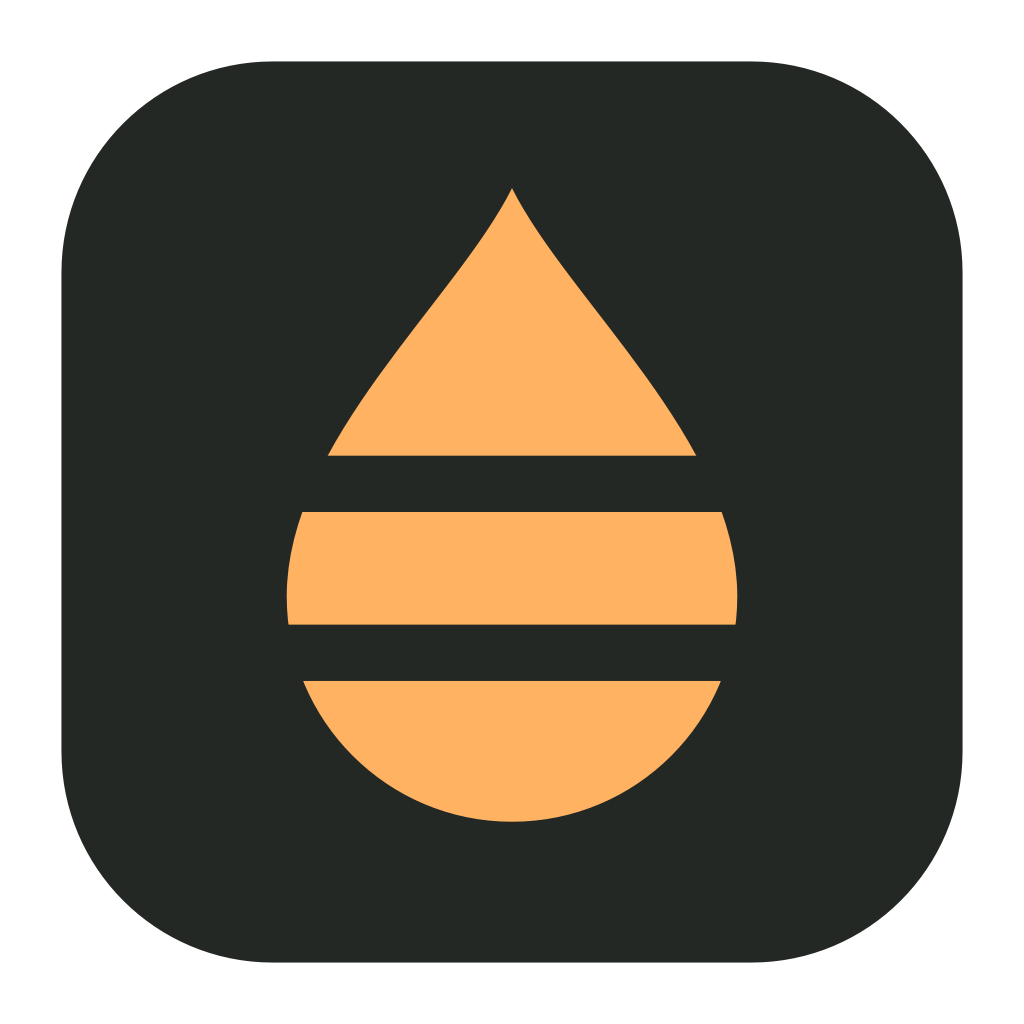
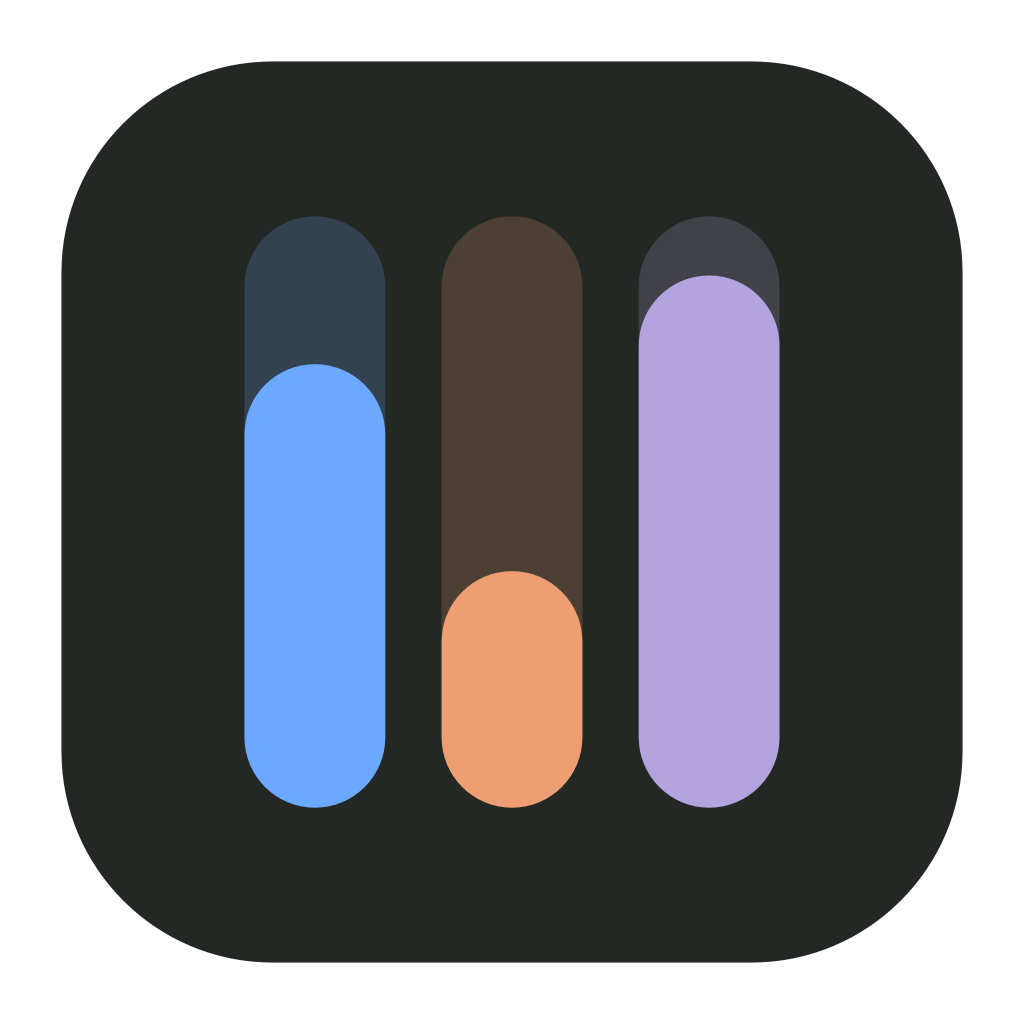
Adopt Juicebars branding and three-bar artwork

Changed region(s): [[0.2188, 0.1875, 0.7812, 0.8125]]

diff --git a/site/help.html b/site/help.html
@@ -1,1 +1,1 @@
-<!doctype html><html lang="en"><head><meta charset="utf-8"><meta name="viewport" content="width=device-width,initial-scale=1"><title>Setup & help · Juicebar</title><meta name="description" content="Install Juicebar, connect Codex, Claude and OpenCode, and understand your usage data."><link rel="icon" href="assets/juicebar.svg"><link rel="stylesheet" href="style.css"></head><body><a class="skip" href="#main">Skip to content</a><header class="wrap"><a class="brand" href="./"><img src="assets/juicebar.svg" alt="" width="30" height="30">juicebar</a><nav aria-label="Main"><a href="https://github.com/Rasalas/juicebar/issues">Report a problem <svg class="icon" viewBox="0 0 24 24" fill="none" stroke="currentColor" stroke-width="1.8" stroke-linecap="round" stroke-linejoin="round" aria-hidden="true" focusable="false"><path d="M14 3h7v7m0-7L10 14"/><path d="M10 3H4v17h17v-6"/></svg></a></nav></header><main id="main" class="wrap article"><h1>Setup & help.</h1><p>Juicebar uses the tools and accounts you already have. It does not require a separate account or send prompts to check your limits.</p><h2>Install on your Mac</h2><ol><li>Download <a href="https://github.com/Rasalas/juicebar/releases/download/v0.1.4/Juicebar-0.1.4-macOS-arm64.dmg">Juicebar 0.1.4 for Mac</a>. The current build requires Apple Silicon and macOS 14 or later.</li><li>Open the disk image and drag Juicebar to Applications. Eject the disk image, then open Juicebar from Applications.</li><li>Open Accounts and connect your providers. Enable notifications under Warnings when you are ready.</li></ol><p class="note">The official direct download is Developer ID signed and notarized. You should not need to disable Gatekeeper. Source builds are a separate option for contributors.</p><h2>Connect a provider</h2><details open><summary>ChatGPT / Codex subscription</summary><p>Install the <a href="https://developers.openai.com/codex/cli/">Codex CLI</a> and run <code>codex login</code> in Terminal. Choose your ChatGPT account. In Juicebar, add Codex and save. CLI paths are detected automatically; a custom program or profile folder can be set under Advanced setup.</p></details><details><summary>Claude subscription</summary><p>Install <a href="https://code.claude.com/docs/en/setup">Claude Code</a> and run <code>claude auth login</code>. Add Claude in Juicebar and save. The CLI must be signed in to the subscription you want to monitor. A browser-only sign-in is not enough.</p></details><details><summary>OpenCode Go</summary><p>Choose the correct account and workspace in the <a href="https://opencode.ai/console/">OpenCode console</a>. Juicebar can read an existing local <code>opencode-go</code> API key, or you can save a Go key in its account form. The form tells you when it finds a local key.</p><p>The newer <code>opencode console login</code> session is not yet a supported source for this quota integration. A 403 or EntitlementError means the key does not report Go access; check its workspace and subscription assignment. It does not, on its own, prove your paid subscription expired.</p></details><details><summary>OpenCode Zen and API accounts</summary><p>Zen activity comes from the local OpenCode database. Juicebar does not currently claim a verified Zen balance. OpenAI and Anthropic organization cost reports require an admin key; a normal model API key is not enough. OpenRouter uses a management key for account-wide balance.</p><p>These are separate from ChatGPT and Claude subscriptions. A budget entered in Juicebar is your warning budget, not a provider-imposed cap.</p></details><h2>Understand the numbers</h2><details><summary>Why is a quota line flat?</summary><p>Quota history records provider measurements from the time Juicebar starts collecting them. A flat line means the reported percentage did not change. Token logs cannot reconstruct subscription percentages.</p></details><details><summary>Where does the API cost come from?</summary><p>Juicebar estimates the API equivalent of recorded input, output and cache tokens at current standard prices. It shows coverage and leaves unknown models unpriced. This is not what you paid for a subscription. Confirmed model aliases and prices can update through a signed data catalog. That check can be disabled in Settings.</p></details><details><summary>Why are older chats or dates missing?</summary><p>Usage imports automatically at launch and every five minutes. Available local and SSH logs cover up to 90 days. Logs deleted before the first import, unconnected devices and browser-only chats may be absent. Older Claude daily statistics can fill gaps, but often lack enough detail for a cost estimate.</p></details><details><summary>How do I add another computer?</summary><p>Under Usage, add an existing SSH alias such as <code>workstation</code>. The host needs Python 3, a known host key and working key-based login. Juicebar rejects password prompts and does not install anything remotely. Only usage metadata is returned.</p></details><details><summary>Notifications appear only in Notification Center</summary><p>Allow Juicebar banners and sound in macOS System Settings → Notifications. Check Focus and screen-sharing settings too. Then enable notifications and sound inside Juicebar and send a test notification. macOS controls whether a banner can appear.</p></details><details><summary>Will updates cost money?</summary><p>No. Direct downloads and their updates stay free. Mac App Store distribution is on hold while equivalent, provider-compliant integrations remain unresolved.</p></details><h2>Something still looks wrong?</h2><p><a href="https://github.com/Rasalas/juicebar/issues">Open an issue</a> with your macOS version, Juicebar version, provider and what you expected to see. Redact account names from screenshots and never attach API keys, credentials or raw conversation logs.</p><p>For a security issue, use <a href="https://github.com/Rasalas/juicebar/security/advisories/new">private vulnerability reporting</a>.</p></main><footer class="wrap"><a href="./"><svg class="icon" viewBox="0 0 24 24" fill="none" stroke="currentColor" stroke-width="1.8" stroke-linecap="round" stroke-linejoin="round" aria-hidden="true" focusable="false"><path d="M20 12H4m6-6-6 6 6 6"/></svg> Back to Juicebar</a><a href="https://github.com/Rasalas/juicebar/blob/main/PRIVACY.md">Privacy</a></footer></body></html>
+<!doctype html><html lang="en"><head><meta charset="utf-8"><meta name="viewport" content="width=device-width,initial-scale=1"><title>Setup & help · Juicebars</title><meta name="description" content="Install Juicebars, connect Codex, Claude and OpenCode, and understand your usage data."><link rel="icon" href="assets/juicebar.svg?v=juicebars"><link rel="stylesheet" href="style.css"></head><body><a class="skip" href="#main">Skip to content</a><header class="wrap"><a class="brand" href="./"><img src="assets/juicebar.svg?v=juicebars" alt="" width="30" height="30">juicebars</a><nav aria-label="Main"><a href="https://github.com/Rasalas/juicebar/issues">Report a problem <svg class="icon" viewBox="0 0 24 24" fill="none" stroke="currentColor" stroke-width="1.8" stroke-linecap="round" stroke-linejoin="round" aria-hidden="true" focusable="false"><path d="M14 3h7v7m0-7L10 14"/><path d="M10 3H4v17h17v-6"/></svg></a></nav></header><main id="main" class="wrap article"><h1>Setup & help.</h1><p>Juicebars uses the tools and accounts you already have. It does not require a separate account or send prompts to check your limits.</p><h2>Install on your Mac</h2><ol><li>Download <a href="https://github.com/Rasalas/juicebar/releases/download/v0.1.4/Juicebar-0.1.4-macOS-arm64.dmg">Juicebars 0.1.4 for Mac</a>. The current build requires Apple Silicon and macOS 14 or later.</li><li>Open the disk image and drag Juicebars to Applications. Eject the disk image, then open Juicebars from Applications.</li><li>Open Accounts and connect your providers. Enable notifications under Warnings when you are ready.</li></ol><p class="note">The official direct download is Developer ID signed and notarized. You should not need to disable Gatekeeper. Source builds are a separate option for contributors.</p><h2>Connect a provider</h2><details open><summary>ChatGPT / Codex subscription</summary><p>Install the <a href="https://developers.openai.com/codex/cli/">Codex CLI</a> and run <code>codex login</code> in Terminal. Choose your ChatGPT account. In Juicebars, add Codex and save. CLI paths are detected automatically; a custom program or profile folder can be set under Advanced setup.</p></details><details><summary>Claude subscription</summary><p>Install <a href="https://code.claude.com/docs/en/setup">Claude Code</a> and run <code>claude auth login</code>. Add Claude in Juicebars and save. The CLI must be signed in to the subscription you want to monitor. A browser-only sign-in is not enough.</p></details><details><summary>OpenCode Go</summary><p>Choose the correct account and workspace in the <a href="https://opencode.ai/console/">OpenCode console</a>. Juicebars can read an existing local <code>opencode-go</code> API key, or you can save a Go key in its account form. The form tells you when it finds a local key.</p><p>The newer <code>opencode console login</code> session is not yet a supported source for this quota integration. A 403 or EntitlementError means the key does not report Go access; check its workspace and subscription assignment. It does not, on its own, prove your paid subscription expired.</p></details><details><summary>OpenCode Zen and API accounts</summary><p>Zen activity comes from the local OpenCode database. Juicebars does not currently claim a verified Zen balance. OpenAI and Anthropic organization cost reports require an admin key; a normal model API key is not enough. OpenRouter uses a management key for account-wide balance.</p><p>These are separate from ChatGPT and Claude subscriptions. A budget entered in Juicebars is your warning budget, not a provider-imposed cap.</p></details><h2>Understand the numbers</h2><details><summary>Why is a quota line flat?</summary><p>Quota history records provider measurements from the time Juicebars starts collecting them. A flat line means the reported percentage did not change. Token logs cannot reconstruct subscription percentages.</p></details><details><summary>Where does the API cost come from?</summary><p>Juicebars estimates the API equivalent of recorded input, output and cache tokens at current standard prices. It shows coverage and leaves unknown models unpriced. This is not what you paid for a subscription. Confirmed model aliases and prices can update through a signed data catalog. That check can be disabled in Settings.</p></details><details><summary>Why are older chats or dates missing?</summary><p>Usage imports automatically at launch and every five minutes. Available local and SSH logs cover up to 90 days. Logs deleted before the first import, unconnected devices and browser-only chats may be absent. Older Claude daily statistics can fill gaps, but often lack enough detail for a cost estimate.</p></details><details><summary>How do I add another computer?</summary><p>Under Usage, add an existing SSH alias such as <code>workstation</code>. The host needs Python 3, a known host key and working key-based login. Juicebars rejects password prompts and does not install anything remotely. Only usage metadata is returned.</p></details><details><summary>Notifications appear only in Notification Center</summary><p>Allow Juicebars banners and sound in macOS System Settings → Notifications. Check Focus and screen-sharing settings too. Then enable notifications and sound inside Juicebars and send a test notification. macOS controls whether a banner can appear.</p></details><details><summary>Will updates cost money?</summary><p>No. Direct downloads and their updates stay free. Mac App Store distribution is on hold while equivalent, provider-compliant integrations remain unresolved.</p></details><h2>Something still looks wrong?</h2><p><a href="https://github.com/Rasalas/juicebar/issues">Open an issue</a> with your macOS version, Juicebars version, provider and what you expected to see. Redact account names from screenshots and never attach API keys, credentials or raw conversation logs.</p><p>For a security issue, use <a href="https://github.com/Rasalas/juicebar/security/advisories/new">private vulnerability reporting</a>.</p></main><footer class="wrap"><a href="./"><svg class="icon" viewBox="0 0 24 24" fill="none" stroke="currentColor" stroke-width="1.8" stroke-linecap="round" stroke-linejoin="round" aria-hidden="true" focusable="false"><path d="M20 12H4m6-6-6 6 6 6"/></svg> Back to Juicebars</a><a href="https://github.com/Rasalas/juicebar/blob/main/PRIVACY.md">Privacy</a></footer></body></html>

diff --git a/site/index.html b/site/index.html
@@ -2,29 +2,29 @@
 <html lang="en">
 <head>
 <meta charset="utf-8"><meta name="viewport" content="width=device-width,initial-scale=1">
-<title>Juicebar · Know what's left</title>
+<title>Juicebars · Know what's left</title>
 <meta name="description" content="Codex, Claude and OpenCode usage in your Mac menu bar. Quotas, timely warnings and local history. Free and open source.">
-<meta name="theme-color" content="#191c1b"><link rel="icon" href="assets/juicebar.svg"><link rel="stylesheet" href="style.css"><script src="download.js" defer></script>
-<meta property="og:title" content="Juicebar · Know what's left"><meta property="og:description" content="Your AI subscriptions, one quiet menu bar. Free and open source for macOS."><meta property="og:image" content="https://rasalas.github.io/juicebar/assets/overview.png">
+<meta name="theme-color" content="#191c1b"><link rel="icon" href="assets/juicebar.svg?v=juicebars"><link rel="stylesheet" href="style.css"><script src="download.js" defer></script>
+<meta property="og:title" content="Juicebars · Know what's left"><meta property="og:description" content="Your AI subscriptions, one quiet menu bar. Free and open source for macOS."><meta property="og:image" content="https://rasalas.github.io/juicebar/assets/overview.png">
 </head>
 <body>
 <a class="skip" href="#main">Skip to content</a>
-<header class="wrap"><a class="brand" href="./"><img src="assets/juicebar.svg" alt="" width="30" height="30">juicebar</a><nav aria-label="Main"><a href="#how">How it works</a><a href="help.html">Setup & help</a><a href="https://github.com/Rasalas/juicebar">Source <svg class="icon" viewBox="0 0 24 24" fill="none" stroke="currentColor" stroke-width="1.8" stroke-linecap="round" stroke-linejoin="round" aria-hidden="true" focusable="false"><path d="M14 3h7v7m0-7L10 14"/><path d="M10 3H4v17h17v-6"/></svg></a></nav></header>
+<header class="wrap"><a class="brand" href="./"><img src="assets/juicebar.svg?v=juicebars" alt="" width="30" height="30">juicebars</a><nav aria-label="Main"><a href="#how">How it works</a><a href="help.html">Setup & help</a><a href="https://github.com/Rasalas/juicebar">Source <svg class="icon" viewBox="0 0 24 24" fill="none" stroke="currentColor" stroke-width="1.8" stroke-linecap="round" stroke-linejoin="round" aria-hidden="true" focusable="false"><path d="M14 3h7v7m0-7L10 14"/><path d="M10 3H4v17h17v-6"/></svg></a></nav></header>
 <main id="main">
 <section class="hero wrap">
 <div class="intro"><h1>Know<br>what’s <em>left.</em></h1><p class="lead">Codex. Claude. OpenCode.<br>Your limits together, with a heads-up before you run dry.</p><div class="actions"><a class="button" data-download href="https://github.com/Rasalas/juicebar/releases/download/v0.1.4/Juicebar-0.1.4-macOS-arm64.dmg"><span data-download-label>Download for Mac</span> <svg class="icon" viewBox="0 0 24 24" fill="none" stroke="currentColor" stroke-width="1.8" stroke-linecap="round" stroke-linejoin="round" aria-hidden="true" focusable="false"><path d="M12 3v12m-5-5 5 5 5-5"/><path d="M5 15v5h14v-5"/></svg></a><a class="quiet" href="#how">Take a look <svg class="icon" viewBox="0 0 24 24" fill="none" stroke="currentColor" stroke-width="1.8" stroke-linecap="round" stroke-linejoin="round" aria-hidden="true" focusable="false"><path d="M7 7l10 10M7 17h10V7"/></svg></a></div><p class="small"><span data-download-status>Apple Silicon · macOS 14 or later</span><br>Free · Version 0.1.4 · Signed & notarized</p><details class="download-options"><summary>Downloads</summary><a href="https://github.com/Rasalas/juicebar/releases/download/v0.1.4/Juicebar-0.1.4-macOS-arm64.dmg">Mac · Apple Silicon <span>0.1.4 · DMG, 2.6 MB</span></a><p>Intel, Windows and Linux builds are not available yet.</p></details><p class="release-links"><a href="https://github.com/Rasalas/juicebar/releases/tag/v0.1.4">Release notes</a><a href="https://github.com/Rasalas/juicebar/releases/download/v0.1.4/SHA256SUMS.txt">SHA-256 checksum</a></p></div>
-<div class="hero-art"><div class="menubar" role="img" aria-label="Menu bar preview with actual Juicebar artwork. From right to left: battery, date and time, Control Center, Wi-Fi, and Juicebar's Codex, Claude and OpenCode quota bars.">
+<div class="hero-art"><div class="menubar" role="img" aria-label="Menu bar preview with actual Juicebars artwork. From right to left: battery, date and time, Control Center, Wi-Fi, and Juicebars's Codex, Claude and OpenCode quota bars.">
   <img height="44" width="126" class="menu-limits" src="assets/menu-limits.png" alt="">
   <svg class="system-icon wifi" viewBox="0 0 24 18" aria-hidden="true"><g fill="none" stroke="currentColor" stroke-width="2.4" stroke-linecap="round"><path d="M2 5a16 16 0 0 1 20 0M5.5 9a10.5 10.5 0 0 1 13 0M9 13a5 5 0 0 1 6 0"/></g><circle cx="12" cy="16" r="1.3" fill="currentColor"/></svg>
   <svg class="system-icon control-center" viewBox="0 0 22 20" aria-hidden="true"><rect x="1" y="1" width="20" height="7" rx="3.5" fill="currentColor"/><circle cx="5" cy="4.5" r="2.2" fill="#444a43"/><rect x="1.7" y="12.7" width="18.6" height="5.6" rx="2.8" stroke="currentColor" stroke-width="1.4" fill="none"/><circle cx="17" cy="15.5" r="2" fill="currentColor"/></svg>
   <span class="menu-date">Fri 25 Sep <span>09:41</span></span>
   <svg class="system-icon battery" viewBox="0 0 29 14" aria-hidden="true"><rect x="1" y="1" width="24" height="12" rx="3" stroke="currentColor" stroke-opacity=".65" stroke-width="1.3" fill="none"/><rect x="3" y="3" width="17" height="8" rx="1.4" fill="currentColor"/><path d="M27 5v4" stroke="currentColor" stroke-width="2" stroke-linecap="round"/></svg>
-</div><img height="1354" width="760" class="tray" src="assets/tray.png" alt="Juicebar popover with remaining quotas, reset times and even-pace markers for Codex, Claude and OpenCode Go."><p class="caption">App preview, sample data. System icons illustrated.</p></div>
+</div><img height="1354" width="760" class="tray" src="assets/tray.png" alt="Juicebars popover with remaining quotas, reset times and even-pace markers for Codex, Claude and OpenCode Go."><p class="caption">App preview, sample data. System icons illustrated.</p></div>
 </section>
-<section id="how" class="wrap feature"><div><h2>Limits and reset times.</h2><p>The bars drain as you work. The diamond shows where an even usage pace would put you. Choose which limits belong in your menu bar, without a row of names and percentages.</p><p>Set a usage threshold, a pace warning or a forecast window. Get a reminder when a banked reset is about to expire, where your provider reports that date.</p></div><figure class="wide"><img height="1600" width="2560" src="assets/overview.png" loading="lazy" alt="Juicebar overview showing Codex and Claude quotas side by side, plus an expiring reset warning."><figcaption>English and German interface. Light and dark appearance. Sample data shown.</figcaption></figure></section>
+<section id="how" class="wrap feature"><div><h2>Limits and reset times.</h2><p>The bars drain as you work. The diamond shows where an even usage pace would put you. Choose which limits belong in your menu bar, without a row of names and percentages.</p><p>Set a usage threshold, a pace warning or a forecast window. Get a reminder when a banked reset is about to expire, where your provider reports that date.</p></div><figure class="wide"><img height="1600" width="2560" src="assets/overview.png" loading="lazy" alt="Juicebars overview showing Codex and Claude quotas side by side, plus an expiring reset warning."><figcaption>English and German interface. Light and dark appearance. Sample data shown.</figcaption></figure></section>
 <section class="wrap feature"><div><h2>Usage and API costs.</h2><p>Daily charts and an activity calendar bring Codex, Claude and OpenCode logs together. Add an existing SSH host to include work on another computer.</p><p>See the theoretical API value of your token usage, with cache pricing and clear coverage when a model has no known price. It is an estimate, never a subscription bill.</p></div><figure class="wide"><img height="1600" width="2560" src="assets/usage.png" loading="lazy" alt="Usage dashboard with theoretical API costs, activity calendar and daily usage chart."><figcaption>Usage imports automatically. Previously collected metadata remains available for 90 days.</figcaption></figure></section>
-<section class="wrap details"><div><h2>Your data stays on your Mac.</h2></div><dl><dt>No conversation archive</dt><dd>Juicebar reads local logs to extract usage metadata. It does not store or upload your prompts and responses.</dd><dt>Direct provider connections</dt><dd>Your existing CLI sign-ins and keys stay on your Mac. Requests go to the provider concerned, without a Juicebar server in between.</dd><dt>Updates without a paywall</dt><dd>The app and its updates are free. Check for new versions automatically and install them through the built-in updater. Contributions support continued maintenance.</dd></dl></section>
-<section class="wrap last"><h2>Juicebar for Mac.</h2><a class="button" data-download href="https://github.com/Rasalas/juicebar/releases/download/v0.1.4/Juicebar-0.1.4-macOS-arm64.dmg"><span data-download-label>Download for Mac</span> <svg class="icon" viewBox="0 0 24 24" fill="none" stroke="currentColor" stroke-width="1.8" stroke-linecap="round" stroke-linejoin="round" aria-hidden="true" focusable="false"><path d="M12 3v12m-5-5 5 5 5-5"/><path d="M5 15v5h14v-5"/></svg></a><p class="small"><span data-download-status>Apple Silicon · macOS 14 or later</span><br><a href="#main">All downloads</a></p></section>
+<section class="wrap details"><div><h2>Your data stays on your Mac.</h2></div><dl><dt>No conversation archive</dt><dd>Juicebars reads local logs to extract usage metadata. It does not store or upload your prompts and responses.</dd><dt>Direct provider connections</dt><dd>Your existing CLI sign-ins and keys stay on your Mac. Requests go to the provider concerned, without a Juicebars server in between.</dd><dt>Updates without a paywall</dt><dd>The app and its updates are free. Check for new versions automatically and install them through the built-in updater. Contributions support continued maintenance.</dd></dl></section>
+<section class="wrap last"><h2>Juicebars for Mac.</h2><a class="button" data-download href="https://github.com/Rasalas/juicebar/releases/download/v0.1.4/Juicebar-0.1.4-macOS-arm64.dmg"><span data-download-label>Download for Mac</span> <svg class="icon" viewBox="0 0 24 24" fill="none" stroke="currentColor" stroke-width="1.8" stroke-linecap="round" stroke-linejoin="round" aria-hidden="true" focusable="false"><path d="M12 3v12m-5-5 5 5 5-5"/><path d="M5 15v5h14v-5"/></svg></a><p class="small"><span data-download-status>Apple Silicon · macOS 14 or later</span><br><a href="#main">All downloads</a></p></section>
 </main>
 <footer class="wrap"><span>Made by <a href="https://github.com/Rasalas">Rasalas</a> & contributors</span><nav aria-label="Footer"><a href="help.html">Help</a><a href="https://github.com/Rasalas/juicebar/blob/main/PRIVACY.md">Privacy</a><a href="https://github.com/Rasalas/juicebar/blob/main/LICENSE">MIT license</a><a href="https://github.com/sponsors/Rasalas">Support the project <svg class="icon" viewBox="0 0 24 24" fill="none" stroke="currentColor" stroke-width="1.8" stroke-linecap="round" stroke-linejoin="round" aria-hidden="true" focusable="false"><path d="M14 3h7v7m0-7L10 14"/><path d="M10 3H4v17h17v-6"/></svg></a></nav></footer>
 </body></html>

diff --git a/Sources/Juicebar/AccountsView.swift b/Sources/Juicebar/AccountsView.swift
@@ -31,7 +31,7 @@ struct AccountsView: View {
             Panel {
                 VStack(alignment: .leading, spacing: 10) {
                     Label(tr("Vorhandene Anmeldung verwenden"), systemImage: "lock.shield").font(.headline)
-                    Text(tr("Für Codex und Claude meldest du dich einmal in der jeweiligen CLI an. Juicebar liest deren Verbrauch, ohne eine Modellanfrage zu stellen. Mehrere CLI-Konten lassen sich über getrennte Profilverzeichnisse verbinden.")).font(.callout).foregroundStyle(.secondary)
+                    Text(tr("Für Codex und Claude meldest du dich einmal in der jeweiligen CLI an. Juicebars liest deren Verbrauch, ohne eine Modellanfrage zu stellen. Mehrere CLI-Konten lassen sich über getrennte Profilverzeichnisse verbinden.")).font(.callout).foregroundStyle(.secondary)
                     Text(tr("OpenCode Go kann den vorhandenen lokalen API-Key verwenden. Für Zen gibt es derzeit keinen verifizierten Guthabenabruf; lokale Aktivität findest du unter Nutzung.")).font(.callout).foregroundStyle(.secondary)
                 }
             }
@@ -39,7 +39,7 @@ struct AccountsView: View {
             .alert(tr("Konto entfernen?"), isPresented: Binding(get: { removing != nil }, set: { if !$0 { removing = nil } })) {
                 Button(tr("Abbrechen"), role: .cancel) { removing = nil }
                 Button(tr("Entfernen"), role: .destructive) { if let account = removing { store.removeAccount(account) }; removing = nil }
-            } message: { Text(tr("Der lokale Verlauf, manuelle Fristen und der von Juicebar gespeicherte Schlüssel dieses Kontos werden gelöscht. Deine Anbieter-Anmeldung bleibt bestehen.")) }
+            } message: { Text(tr("Der lokale Verlauf, manuelle Fristen und der von Juicebars gespeicherte Schlüssel dieses Kontos werden gelöscht. Deine Anbieter-Anmeldung bleibt bestehen.")) }
     }
 }
 
@@ -73,7 +73,7 @@ struct AccountEditor: View {
                             Label(tr("Go-Key auf diesem Mac gefunden. API-Key unten leer lassen und Speichern wählen."), systemImage: "checkmark.circle")
                                 .font(.caption).foregroundStyle(Palette.green)
                         }
-                        Text(tr("Ein hier gespeicherter Key hat Vorrang. Ohne eigenen Key liest Juicebar den Eintrag opencode-go auf diesem Mac. Ein Browser-Login allein ändert diesen Key nicht.")).font(.caption).foregroundStyle(.secondary)
+                        Text(tr("Ein hier gespeicherter Key hat Vorrang. Ohne eigenen Key liest Juicebars den Eintrag opencode-go auf diesem Mac. Ein Browser-Login allein ändert diesen Key nicht.")).font(.caption).foregroundStyle(.secondary)
                     }
                     SecureField(tr("API-Key"), text: $secret, prompt: Text(tr("Leer lassen, um gespeicherten Key zu behalten")))
                     Text(configuration.provider.keyHelp).font(.caption).foregroundStyle(.secondary)
@@ -109,7 +109,7 @@ struct OpenCodeSetupHelp: View {
             Text(tr("Mit OpenCode Go verbinden")).font(.system(size: 13, weight: .semibold))
             Text(tr("1. In der Konsole mit der bisherigen Anmeldeart anmelden und den Workspace wählen, in dem du Go abgeschlossen hast."))
             Text(tr("2. Wenn unten ein lokaler Go-Key erkannt wird, kannst du ihn direkt übernehmen. Sonst einen vorhandenen Go-Key in das API-Key-Feld eintragen."))
-            Text(tr("3. Speichern wählen. Juicebar prüft die Verbindung und lädt die Limits. Die neue CLI-Anmeldung über opencode console login richtet OpenCode ein; deren Sitzung unterstützt dieser Verbrauchsabruf noch nicht."))
+            Text(tr("3. Speichern wählen. Juicebars prüft die Verbindung und lädt die Limits. Die neue CLI-Anmeldung über opencode console login richtet OpenCode ein; deren Sitzung unterstützt dieser Verbrauchsabruf noch nicht."))
             HStack {
                 Button(tr("Konsole öffnen")) { NSWorkspace.shared.open(URL(string: "https://opencode.ai/console/")!) }
                 Button(tr("Go-Anleitung")) { NSWorkspace.shared.open(URL(string: "https://opencode.ai/v2/docs/console/go")!) }
@@ -131,7 +131,7 @@ struct CLISetupHelp: View {
         VStack(alignment: .leading, spacing: 10) {
             Label(installed ? tr("CLI auf diesem Mac gefunden") : tr("CLI noch nicht gefunden"), systemImage: installed ? "checkmark.circle" : "terminal")
                 .font(.subheadline.weight(.medium))
-            Text(tr("1. CLI installieren, falls sie noch fehlt. 2. Im Terminal anmelden. 3. Hier speichern. Juicebar prüft die Verbindung automatisch."))
+            Text(tr("1. CLI installieren, falls sie noch fehlt. 2. Im Terminal anmelden. 3. Hier speichern. Juicebars prüft die Verbindung automatisch."))
                 .font(.caption).foregroundStyle(.secondary).fixedSize(horizontal: false, vertical: true)
             HStack {
                 Text(command).font(.system(.caption, design: .monospaced)).textSelection(.enabled)

diff --git a/scripts/make-icon.swift b/scripts/make-icon.swift
@@ -1,6 +1,24 @@
 import AppKit
 
 let destination = URL(fileURLWithPath: CommandLine.arguments[1])
+try FileManager.default.createDirectory(at: destination, withIntermediateDirectories: true)
+// Shared geometry for the website SVG, in-app PNG and macOS icon sizes.
+let bars: [(x: Double, fill: Double, hex: String)] = [
+    (13, 0.75, "6BA8FF"), (27, 0.40, "ED9E73"), (41, 0.90, "B3A3DF")
+]
+let updateAssets = CommandLine.arguments.contains("--update-assets")
+let root = URL(fileURLWithPath: #filePath).deletingLastPathComponent().deletingLastPathComponent()
+if updateAssets {
+    var svg = "<svg xmlns=\"http://www.w3.org/2000/svg\" viewBox=\"0 0 64 64\">\n  <rect width=\"64\" height=\"64\" rx=\"15\" fill=\"#242824\"/>\n"
+    for bar in bars {
+        svg += "  <g fill=\"#\(bar.hex)\">\n    <rect x=\"\(bar.x)\" y=\"11\" width=\"10\" height=\"42\" rx=\"5\" opacity=\".2\"/>\n"
+        svg += "    <rect x=\"\(bar.x)\" y=\"\(53 - 42 * bar.fill)\" width=\"10\" height=\"\(42 * bar.fill)\" rx=\"5\"/>\n  </g>\n"
+    }
+    svg += "</svg>\n"
+    for path in ["assets/juicebar.svg", "site/assets/juicebar.svg"] {
+        try svg.write(to: root.appendingPathComponent(path), atomically: true, encoding: .utf8)
+    }
+}
 let directory = FileManager.default.temporaryDirectory.appendingPathComponent("juicebar-\(UUID()).iconset")
 try FileManager.default.createDirectory(at: directory, withIntermediateDirectories: true)
 defer { try? FileManager.default.removeItem(at: directory) }
@@ -11,24 +29,21 @@ for size in [16, 32, 128, 256, 512] {
         NSGraphicsContext.saveGraphicsState()
         NSGraphicsContext.current = NSGraphicsContext(bitmapImageRep: bitmap)
         let s = CGFloat(pixels)
-        // The same segmented droplet as assets/juicebar.svg, in a macOS icon canvas.
         let transform = NSAffineTransform()
         transform.translateX(by: s * 0.06, yBy: s * 0.94)
         transform.scaleX(by: s * 0.88 / 64, yBy: -s * 0.88 / 64)
         transform.concat()
         NSColor(srgbRed: 36 / 255, green: 40 / 255, blue: 36 / 255, alpha: 1).setFill()
         NSBezierPath(roundedRect: NSRect(x: 0, y: 0, width: 64, height: 64), xRadius: 15, yRadius: 15).fill()
-        let drop = NSBezierPath()
-        drop.move(to: NSPoint(x: 32, y: 9))
-        drop.curve(to: NSPoint(x: 16, y: 38), controlPoint1: NSPoint(x: 28, y: 17), controlPoint2: NSPoint(x: 16, y: 27))
-        drop.curve(to: NSPoint(x: 32, y: 54), controlPoint1: NSPoint(x: 16, y: 46.8366), controlPoint2: NSPoint(x: 23.1634, y: 54))
-        drop.curve(to: NSPoint(x: 48, y: 38), controlPoint1: NSPoint(x: 40.8366, y: 54), controlPoint2: NSPoint(x: 48, y: 46.8366))
-        drop.curve(to: NSPoint(x: 32, y: 9), controlPoint1: NSPoint(x: 48, y: 27), controlPoint2: NSPoint(x: 36, y: 17))
-        drop.close()
-        drop.addClip()
-        NSColor(srgbRed: 1, green: 178 / 255, blue: 97 / 255, alpha: 1).setFill()
-        for (y, height) in [(7.0, 21.0), (32.0, 8.0), (44.0, 12.0)] {
-            NSBezierPath(rect: NSRect(x: 12, y: y, width: 40, height: height)).fill()
+        for bar in bars {
+            let rgb = UInt32(bar.hex, radix: 16)!
+            let color = NSColor(srgbRed: CGFloat((rgb >> 16) & 255) / 255,
+                                green: CGFloat((rgb >> 8) & 255) / 255,
+                                blue: CGFloat(rgb & 255) / 255, alpha: 1)
+            color.withAlphaComponent(0.2).setFill()
+            NSBezierPath(roundedRect: NSRect(x: bar.x, y: 11, width: 10, height: 42), xRadius: 5, yRadius: 5).fill()
+            color.setFill()
+            NSBezierPath(roundedRect: NSRect(x: bar.x, y: 53 - 42 * bar.fill, width: 10, height: 42 * bar.fill), xRadius: 5, yRadius: 5).fill()
         }
         NSGraphicsContext.restoreGraphicsState()
         let name = "icon_\(size)x\(size)\(scale == 2 ? "@2x" : "").png"
@@ -36,6 +51,9 @@ for size in [16, 32, 128, 256, 512] {
         try png.write(to: directory.appendingPathComponent(name))
         if pixels == 1024 {
             try png.write(to: destination.appendingPathComponent("Juicebar.png"))
+            if updateAssets {
+                try png.write(to: root.appendingPathComponent("Sources/Juicebar/Resources/juicebar.png"))
+            }
         }
     }
 }

diff --git a/Sources/Juicebar/PreferencesView.swift b/Sources/Juicebar/PreferencesView.swift
@@ -9,7 +9,7 @@ struct PreferencesView: View {
     @State private var loginError: String?
     var body: some View {
         VStack(alignment: .leading, spacing: 20) {
-            PageHeading(title: tr("So läuft Juicebar."), subtitle: tr("Unauffällig in der Menüleiste. Du bestimmst, was dort zählt."))
+            PageHeading(title: tr("So läuft Juicebars."), subtitle: tr("Unauffällig in der Menüleiste. Du bestimmst, was dort zählt."))
             Panel {
                 VStack(alignment: .leading, spacing: 20) {
                     Text(tr("Darstellung")).font(.headline)
@@ -56,7 +56,7 @@ struct PreferencesView: View {
                 VStack(alignment: .leading, spacing: 20) {
                     Text(tr("Hintergrund")).font(.headline)
                     JuiceMenuPicker(title: tr("Aktualisieren"), selection: $store.settings.refreshSeconds, options: [(tr("Jede Minute"), 60.0), (tr("Alle 90 Sekunden"), 90.0), (tr("Alle 3 Minuten"), 180.0), (tr("Alle 5 Minuten"), 300.0)])
-                    Text(tr("API-Kosten höchstens alle 5 Minuten. Bei Fehlern wartet Juicebar länger; beim Ruhezustand stoppt die laufende Abfrage.")).font(.caption).foregroundStyle(.secondary)
+                    Text(tr("API-Kosten höchstens alle 5 Minuten. Bei Fehlern wartet Juicebars länger; beim Ruhezustand stoppt die laufende Abfrage.")).font(.caption).foregroundStyle(.secondary)
                     Toggle(tr("Beim Anmelden starten"), isOn: $loginEnabled).disabled(store.isDemo).onChange(of: loginEnabled) { _, enabled in
                         do { if enabled { try SMAppService.mainApp.register() } else { try SMAppService.mainApp.unregister() }; loginError = nil }
                         catch { loginError = error.localizedDescription }
@@ -68,7 +68,7 @@ struct PreferencesView: View {
             Panel {
                 VStack(alignment: .leading, spacing: 14) {
                     Label(tr("Lokal gespeichert"), systemImage: "internaldrive").font(.headline)
-                    Text(tr("Juicebar speichert Verbrauchsmessungen, Einstellungen und zugestellte Warnungen. Keine Gesprächsinhalte, keine Telemetrie. Zugangsschlüssel liegen separat im Schlüsselbund.")).font(.callout).foregroundStyle(.secondary)
+                    Text(tr("Juicebars speichert Verbrauchsmessungen, Einstellungen und zugestellte Warnungen. Keine Gesprächsinhalte, keine Telemetrie. Zugangsschlüssel liegen separat im Schlüsselbund.")).font(.callout).foregroundStyle(.secondary)
                     Button(tr("Verlaufsordner öffnen")) {
                         let url = FileManager.default.urls(for: .applicationSupportDirectory, in: .userDomainMask).first!.appendingPathComponent("Juicebar")
                         NSWorkspace.shared.open(url)

diff --git a/Sources/Juicebar/WarningsView.swift b/Sources/Juicebar/WarningsView.swift
@@ -19,7 +19,7 @@ struct WarningsView: View {
                         } else { Button(tr("Aktivieren")) { Task { await store.enableNotifications() } }.buttonStyle(JuiceButtonStyle(prominent: true)).disabled(store.isDemo) }
                     }
                     Toggle(tr("Hinweiston abspielen"), isOn: $store.settings.soundEnabled)
-                    Text(tr("Nur in der Mitteilungszentrale sichtbar? macOS kann Banner und Ton während einer Bildschirmfreigabe oder bei aktivem Fokus unterdrücken, auch wenn beides für Juicebar erlaubt ist.")).font(.caption).foregroundStyle(.secondary)
+                    Text(tr("Nur in der Mitteilungszentrale sichtbar? macOS kann Banner und Ton während einer Bildschirmfreigabe oder bei aktivem Fokus unterdrücken, auch wenn beides für Juicebars erlaubt ist.")).font(.caption).foregroundStyle(.secondary)
                     Button(tr("macOS-Mitteilungseinstellungen öffnen")) { store.openNotificationSettings() }.disabled(store.isDemo)
                     HStack {
                         Button(tr("Testbenachrichtigung")) { Task { await store.testNotification() } }.disabled(!store.settings.notificationsEnabled || store.isDemo)
@@ -42,7 +42,7 @@ struct WarningsView: View {
                     VStack(alignment: .leading, spacing: 8) {
                         Toggle(tr("Bei zu hohem Verbrauch für den bisherigen Zeitraum"), isOn: $store.settings.paceEnabled)
                         Stepper(tr("Toleranz: {0} Prozentpunkte", Int(store.settings.paceBuffer)), value: $store.settings.paceBuffer, in: 0...40, step: 5).disabled(!store.settings.paceEnabled)
-                        Text(tr("Beispiel: Nach der halben Woche wären 50 % gleichmäßig. Mit 10 Punkten Toleranz warnt Juicebar oberhalb von 60 %.")).font(.caption).foregroundStyle(.secondary)
+                        Text(tr("Beispiel: Nach der halben Woche wären 50 % gleichmäßig. Mit 10 Punkten Toleranz warnt Juicebars oberhalb von 60 %.")).font(.caption).foregroundStyle(.secondary)
                     }
                     Divider()
                     VStack(alignment: .leading, spacing: 8) {

diff --git a/Sources/Juicebar/JuicebarApp.swift b/Sources/Juicebar/JuicebarApp.swift
@@ -109,7 +109,7 @@ struct TrayLabel: View {
             if meter.expired { return tr("{0} · {1}: Reset erreicht, neuer Stand ausstehend", meter.account.displayName, window.title) }
             return tr("{0} · {1}: {2} % {3}{4}", meter.account.displayName, window.title, Int(store.settings.displayMode.value(used: window.usedPercent).rounded()), store.settings.displayMode.label.lowercased(), meter.fresh ? "" : tr(" · letzter Stand"))
         }
-        return (values.isEmpty ? tr("Juicebar · Keine Limits für die Menüleiste ausgewählt") : values.joined(separator: "\n")) + (store.expiringCount > 0 ? tr("\nReset-Frist läuft bald ab") : "")
+        return (values.isEmpty ? tr("Juicebars · Keine Limits für die Menüleiste ausgewählt") : values.joined(separator: "\n")) + (store.expiringCount > 0 ? tr("\nReset-Frist läuft bald ab") : "")
     }
     var body: some View {
         Image(nsImage: MenuLimitImage.make(meters: store.trayMeters, mode: store.settings.displayMode, dark: colorScheme == .dark, expiring: store.expiringCount > 0))
@@ -124,7 +124,7 @@ struct TrayLabel: View {
         NSApp.setActivationPolicy(.regular)
         if window == nil {
             let value = NSWindow(contentRect: NSRect(x: 0, y: 0, width: 1060, height: 760), styleMask: [.titled, .closable, .miniaturizable, .resizable, .fullSizeContentView], backing: .buffered, defer: false)
-            value.title = "Juicebar"; value.titleVisibility = .hidden; value.titlebarAppearsTransparent = true
+            value.title = "Juicebars"; value.titleVisibility = .hidden; value.titlebarAppearsTransparent = true
             value.isReleasedWhenClosed = false; value.minSize = NSSize(width: 840, height: 620)
             value.delegate = self
             value.contentView = NSHostingView(rootView: DashboardView(store: store))

diff --git a/Sources/Juicebar/TrayView.swift b/Sources/Juicebar/TrayView.swift
@@ -11,9 +11,9 @@ struct TrayView: View {
                 Button { DashboardWindow.shared.show(store: store) } label: {
                     HStack(spacing: 7) {
                         JuiceLogo().frame(width: 22, height: 22)
-                        Text("juicebar").font(.system(size: 17, weight: .semibold, design: .rounded)).tracking(-0.5)
+                        Text("juicebars").font(.system(size: 17, weight: .semibold, design: .rounded)).tracking(-0.5)
                     }.contentShape(Rectangle())
-                }.buttonStyle(.plain).help(tr("Juicebar öffnen")).accessibilityLabel(tr("Juicebar öffnen"))
+                }.buttonStyle(.plain).help(tr("Juicebars öffnen")).accessibilityLabel(tr("Juicebars öffnen"))
                 Spacer()
                 if store.isRefreshing { ProgressView().controlSize(.small) }
                 Button { store.refresh(force: true) } label: { Image(systemName: "arrow.clockwise") }
@@ -22,7 +22,7 @@ struct TrayView: View {
                     Button(store.isPaused ? tr("Abfragen fortsetzen") : tr("Abfragen pausieren")) { store.isPaused.toggle(); if !store.isPaused { store.refresh(force: true) } }
                     Button(tr("Warnungen 1 Stunde stummschalten")) { store.snooze() }
                     Divider()
-                    Button(tr("Juicebar beenden")) { store.stop(); NSApp.terminate(nil) }
+                    Button(tr("Juicebars beenden")) { store.stop(); NSApp.terminate(nil) }
                 } label: { Image(systemName: "ellipsis") }
                     .menuStyle(.button).menuIndicator(.hidden).buttonStyle(JuiceButtonStyle()).fixedSize()
                     .help(tr("Weitere Aktionen"))

diff --git a/Sources/Juicebar/AboutView.swift b/Sources/Juicebar/AboutView.swift
@@ -8,7 +8,7 @@ struct AboutView: View {
         Panel {
             VStack(alignment: .leading, spacing: 14) {
                 HStack(alignment: .firstTextBaseline) {
-                    Text(tr("Über Juicebar")).font(.headline)
+                    Text(tr("Über Juicebars")).font(.headline)
                     Spacer()
                     Text(updates.version).font(.caption.monospacedDigit()).foregroundStyle(.secondary)
                 }
@@ -22,7 +22,7 @@ struct AboutView: View {
                 if updates.available {
                     Toggle(tr("Automatisch nach App-Updates suchen"), isOn: Binding(get: { updates.automaticChecks }, set: { updates.automaticChecks = $0 }))
                     Button(tr("Nach App-Updates suchen …"), action: updates.check).disabled(!updates.canCheck)
-                    Text(tr("Updates bleiben kostenlos. Es wird kein Juicebar-Konto benötigt.")).font(.caption).foregroundStyle(.secondary)
+                    Text(tr("Updates bleiben kostenlos. Es wird kein Juicebars-Konto benötigt.")).font(.caption).foregroundStyle(.secondary)
                 } else {
                     Button(tr("Veröffentlichungen ansehen"), action: updates.check)
                     Text(tr("Dieser selbst gebaute Stand hat keinen aktiven Auto-Updater. Neue Versionen und Installationshinweise stehen im Projekt."))

diff --git a/Sources/Juicebar/AppStore.swift b/Sources/Juicebar/AppStore.swift
@@ -220,8 +220,8 @@ final class AppStore: ObservableObject {
     func testNotification() async {
         guard !isDemo else { return }
         await updateNotificationStatus()
-        let content = UNMutableNotificationContent(); content.title = tr("Juicebar ist bereit")
-        content.body = settings.soundEnabled ? tr("Test für Banner und Hinweiston.") : tr("Test für Banner. Der Hinweiston ist in Juicebar ausgeschaltet.")
+        let content = UNMutableNotificationContent(); content.title = tr("Juicebars ist bereit")
+        content.body = settings.soundEnabled ? tr("Test für Banner und Hinweiston.") : tr("Test für Banner. Der Hinweiston ist in Juicebars ausgeschaltet.")
         if settings.soundEnabled { content.sound = .default }
         do { try await UNUserNotificationCenter.current().add(UNNotificationRequest(identifier: UUID().uuidString, content: content, trigger: nil)) }
         catch { notificationStatus = error.localizedDescription }

diff --git a/Sources/Juicebar/UsageView.swift b/Sources/Juicebar/UsageView.swift
@@ -288,7 +288,7 @@ struct QuotaHistoryChart: View {
     var body: some View {
         let values = points
         VStack(alignment: .leading, spacing: 14) {
-            Text(tr("Direkte Messwerte der Anbieter seit dem ersten Juicebar-Start. Eine waagerechte Linie bedeutet, dass sich der gemeldete Stand nicht verändert hat. Abo-Prozente lassen sich nicht aus Log-Tokens rekonstruieren.")).font(.caption).foregroundStyle(.secondary)
+            Text(tr("Direkte Messwerte der Anbieter seit dem ersten Juicebars-Start. Eine waagerechte Linie bedeutet, dass sich der gemeldete Stand nicht verändert hat. Abo-Prozente lassen sich nicht aus Log-Tokens rekonstruieren.")).font(.caption).foregroundStyle(.secondary)
             if values.count < 2 { Text(tr("Nach weiteren Abfragen erscheint hier der Verlauf.")).foregroundStyle(.secondary) }
             else {
                 Chart(Array(values.enumerated()), id: \.offset) { _, point in

diff --git a/Sources/JuicebarCore/Models.swift b/Sources/JuicebarCore/Models.swift
@@ -209,8 +209,8 @@ public enum ProviderFailure: Error, LocalizedError, Equatable {
         case .authentication: return tr("Anmeldung fehlt oder ist abgelaufen. Beim Anbieter erneut anmelden.")
         case .unsupported(let detail), .invalidData(let detail), .unavailable(let detail), .needsSetup(let detail): return detail
         case .timedOut: return tr("Die Abfrage hat zu lange gedauert. Der letzte Stand bleibt sichtbar.")
-        case .rateLimited: return tr("Der Anbieter begrenzt die Abfragen. Juicebar wartet vor dem nächsten Versuch.")
-        case .network: return tr("Verbindung nicht möglich. Juicebar versucht es später erneut.")
+        case .rateLimited: return tr("Der Anbieter begrenzt die Abfragen. Juicebars wartet vor dem nächsten Versuch.")
+        case .network: return tr("Verbindung nicht möglich. Juicebars versucht es später erneut.")
         }
     }
 }
